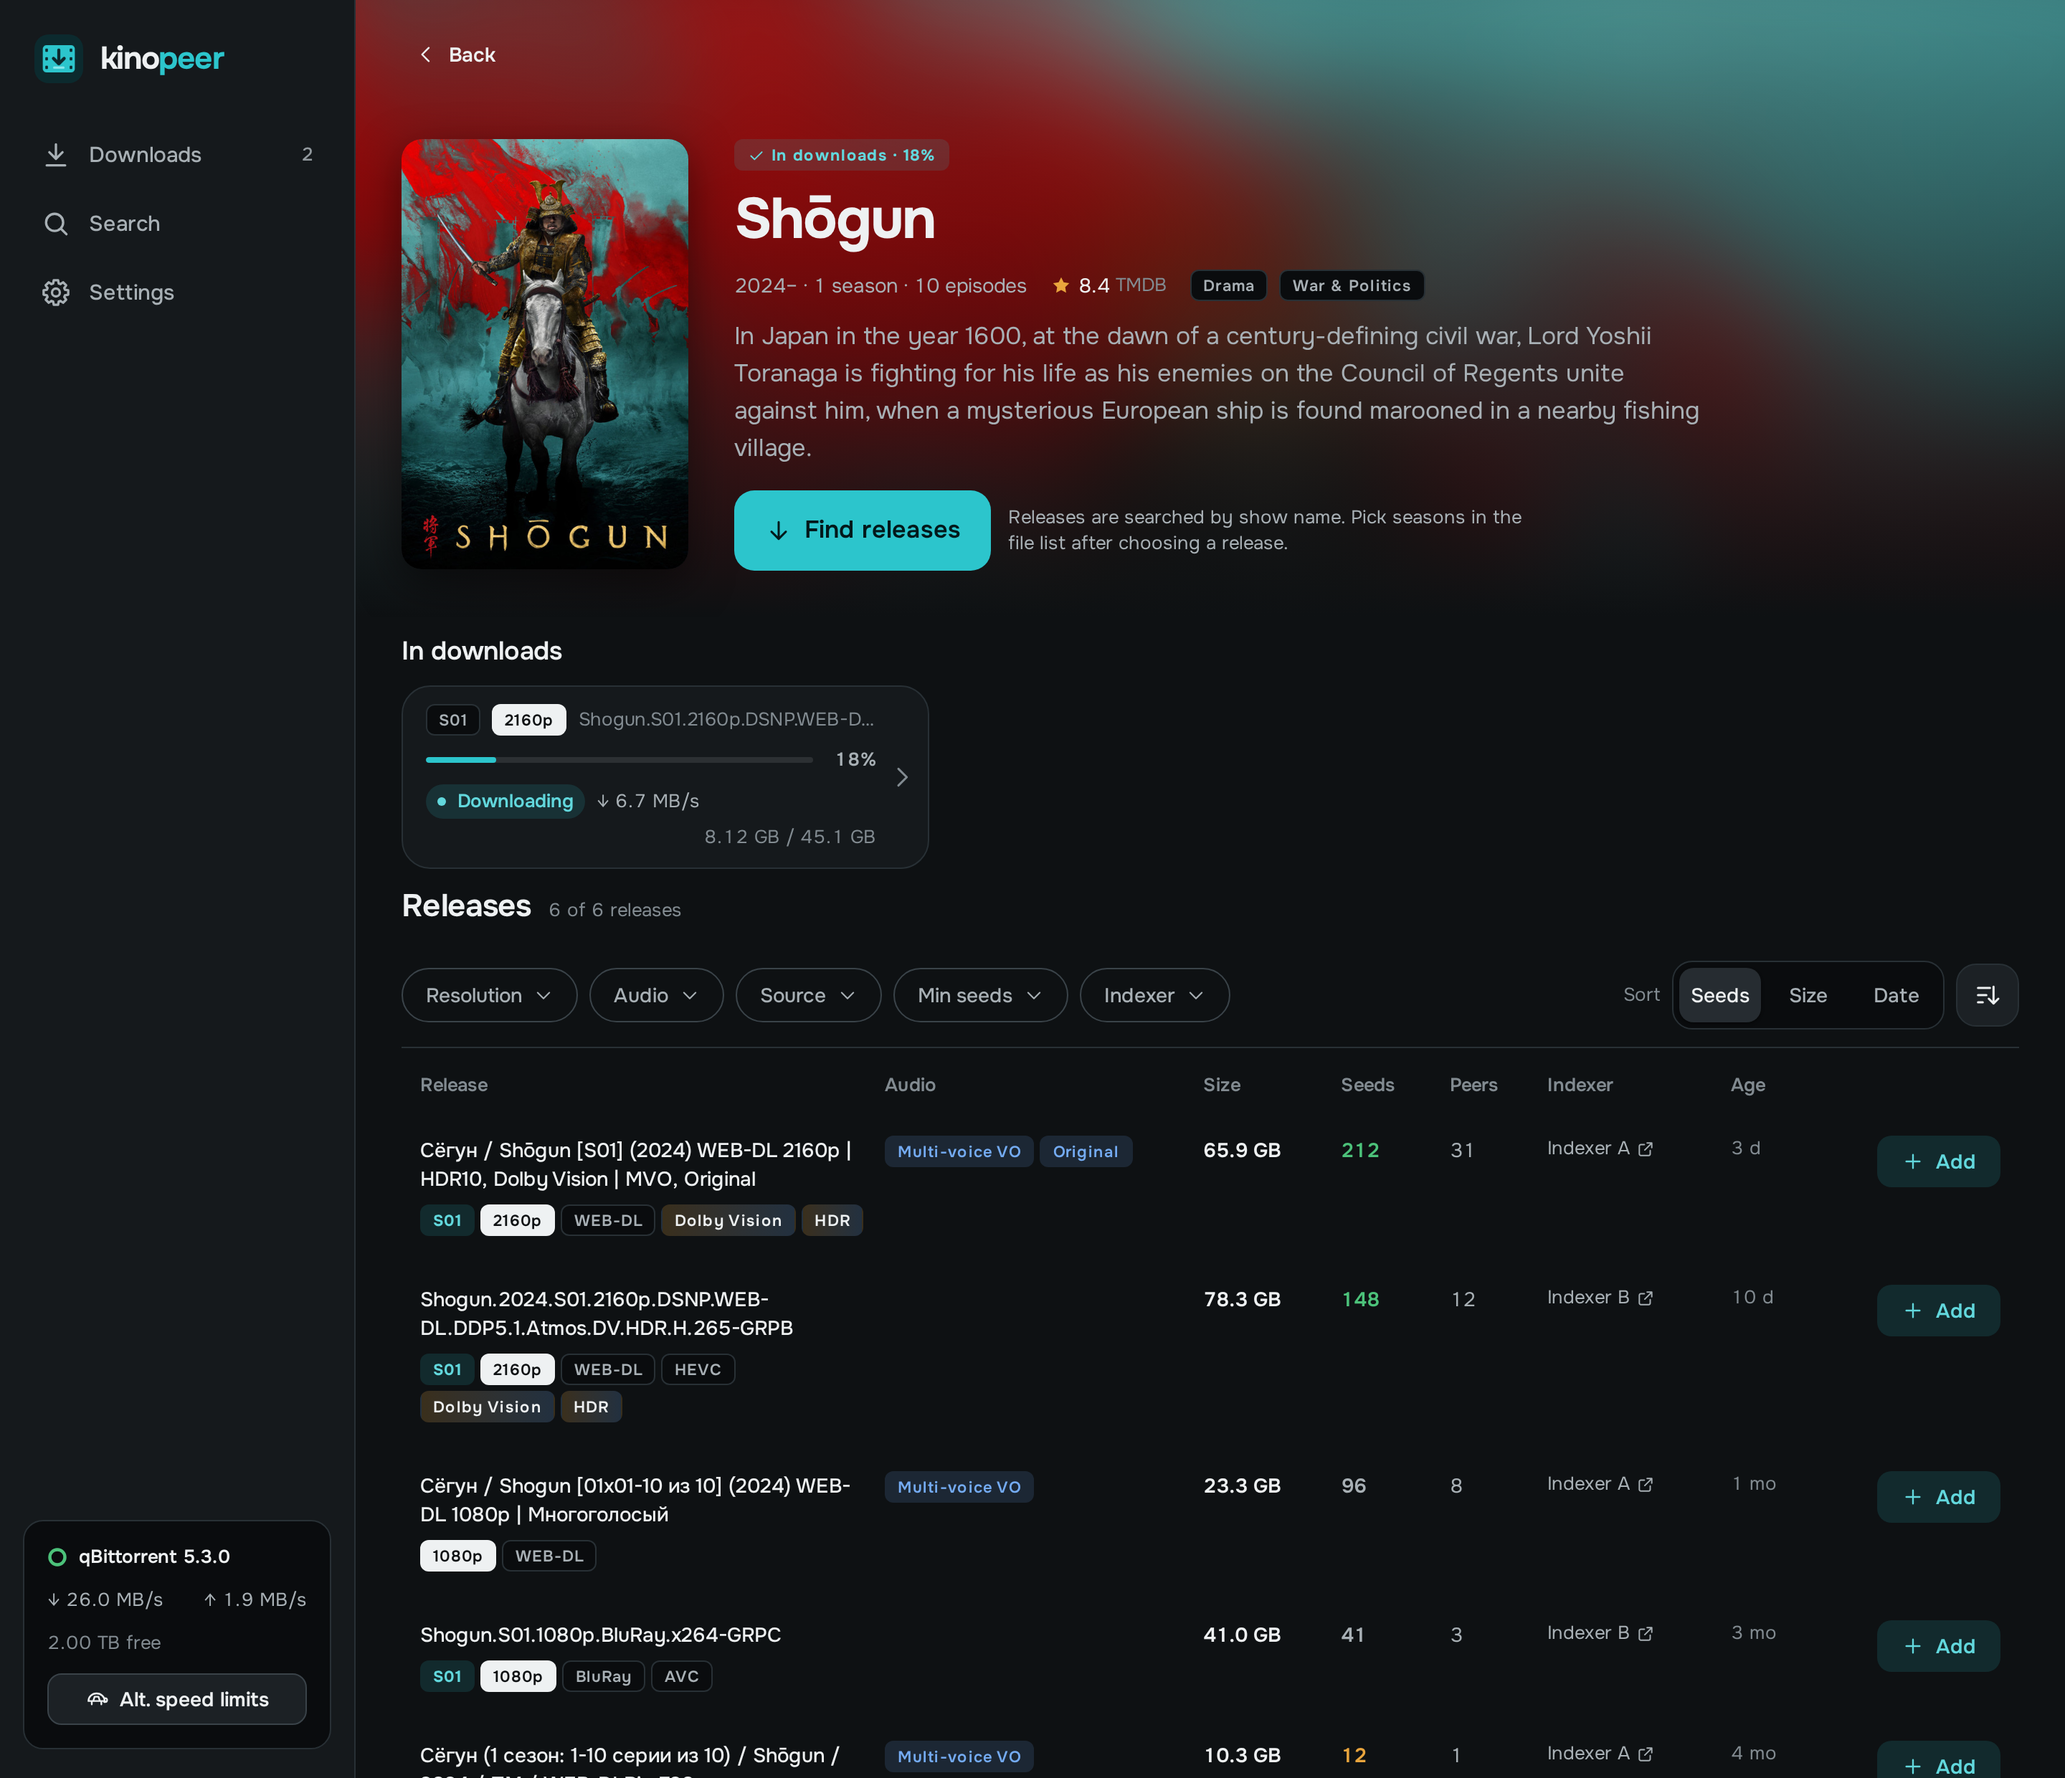
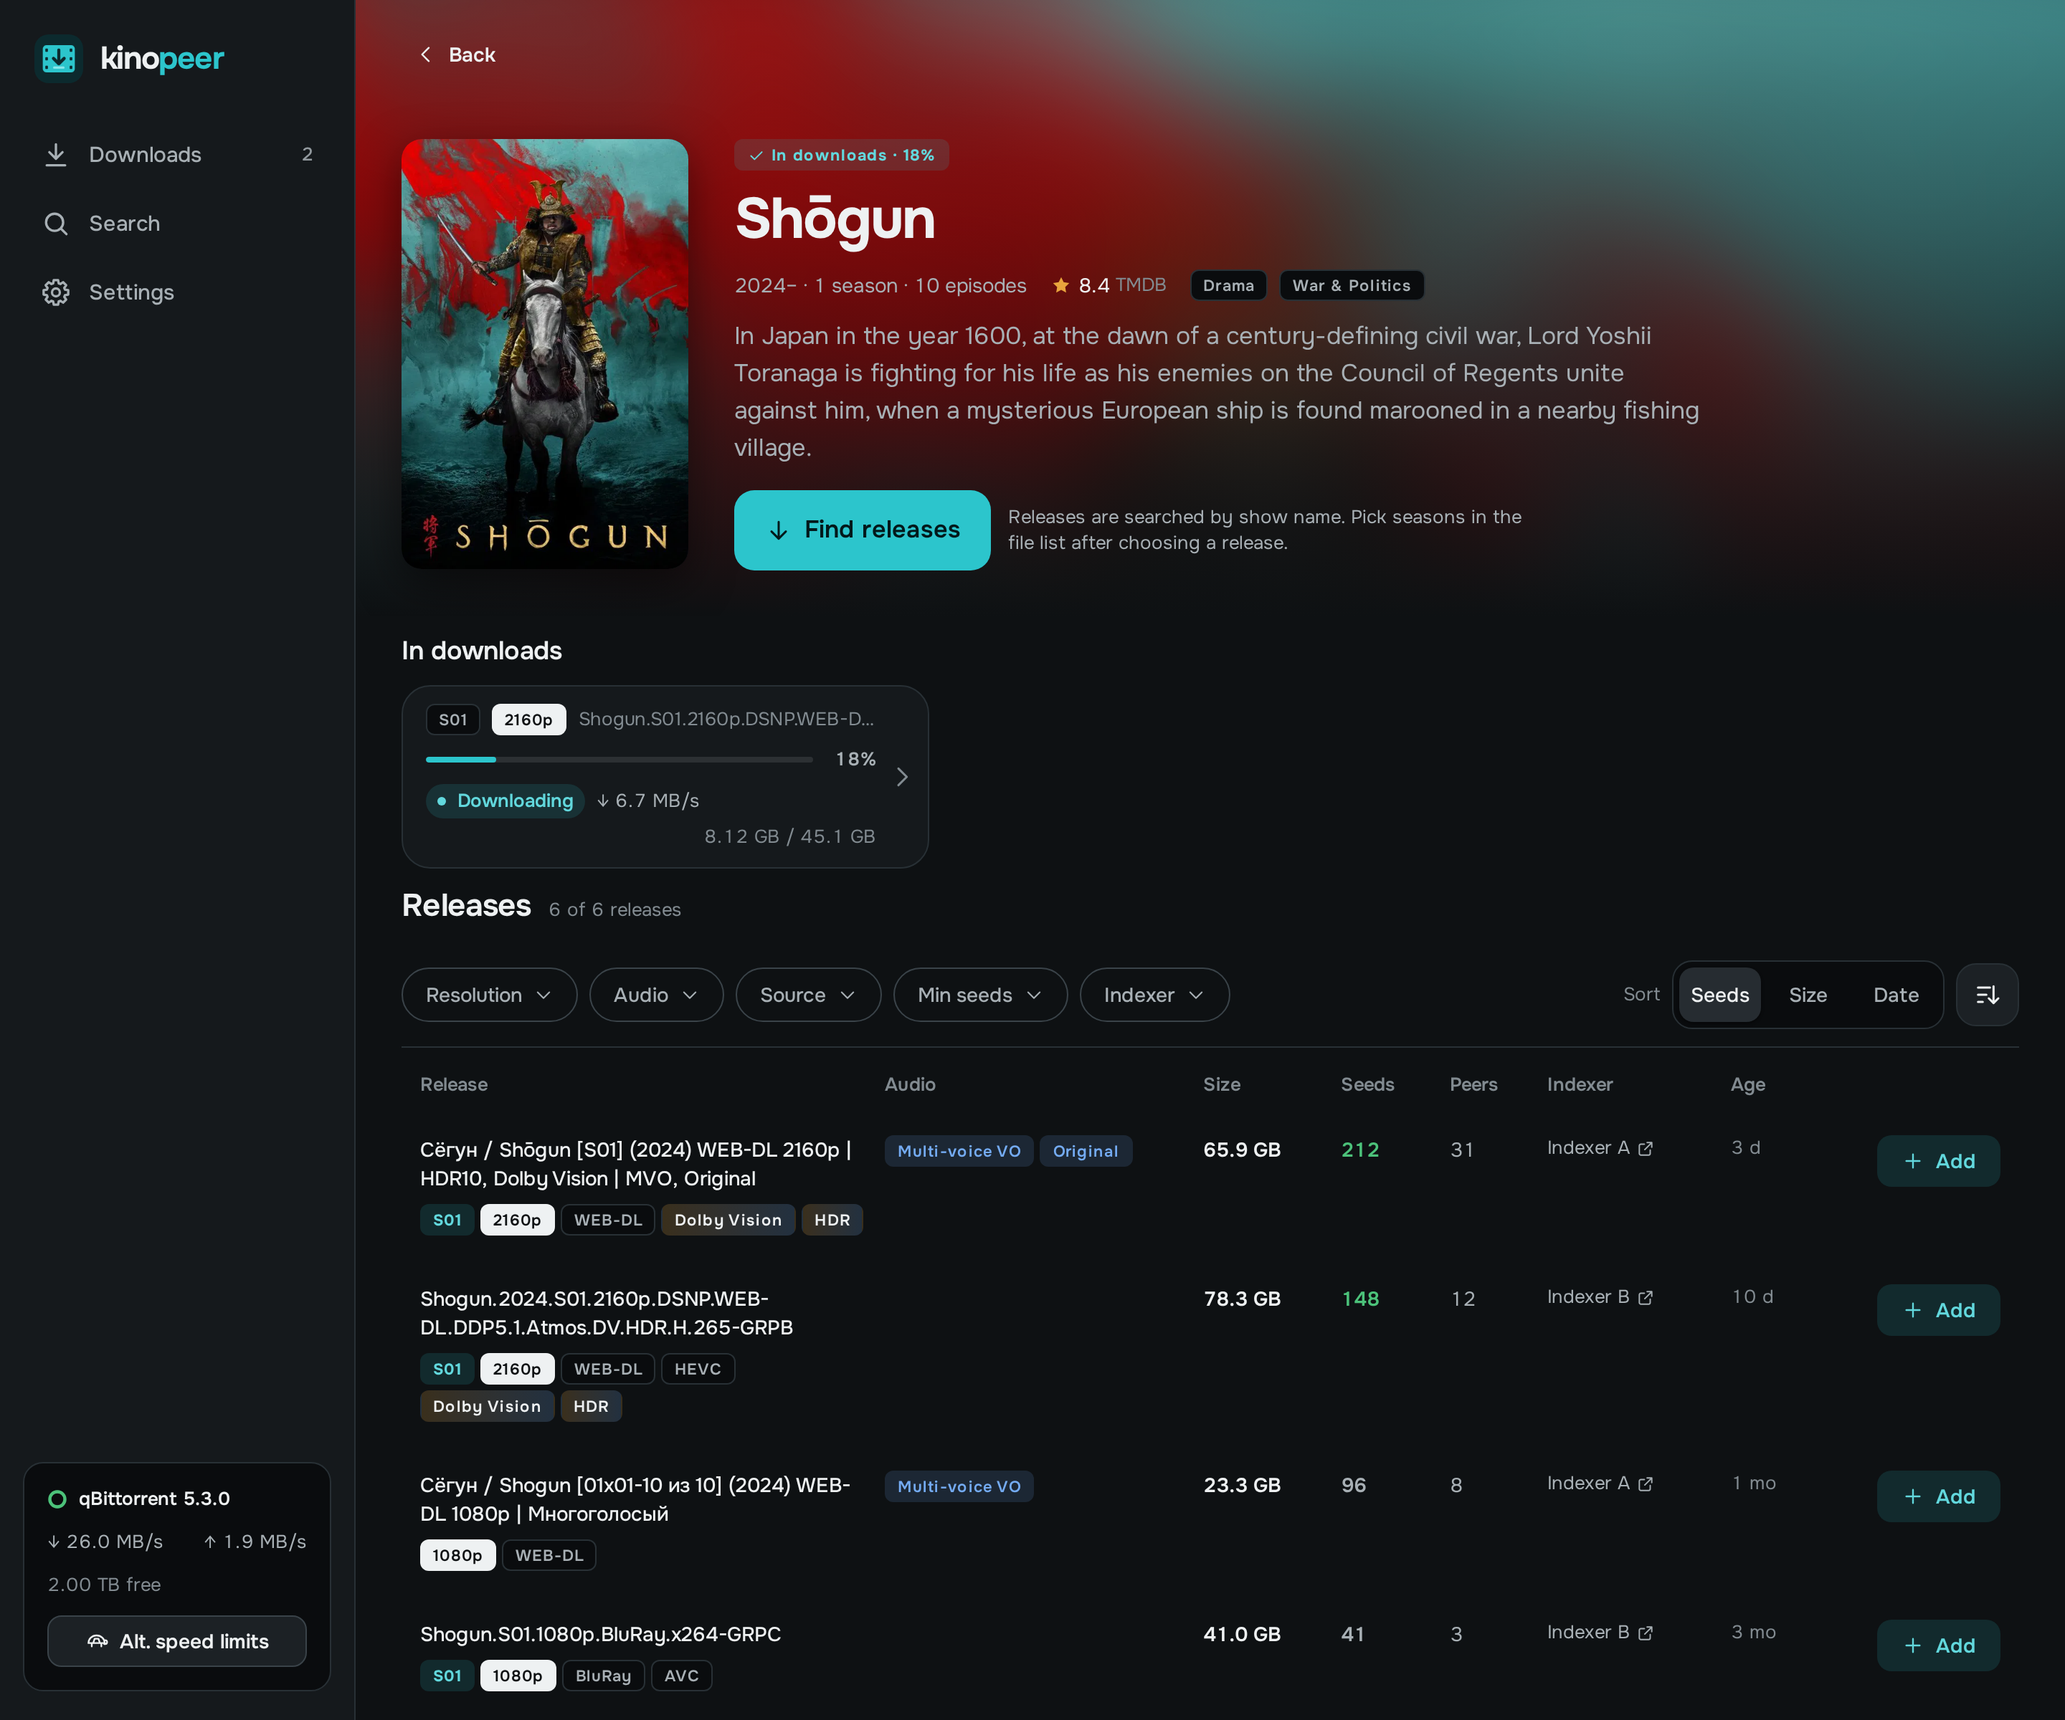
docs: fixes for review round 1 on the README

diff --git a/e2e/readme.shots.ts b/e2e/readme.shots.ts
@@ -85,11 +85,10 @@ test.describe('desktop', () => {
   })
 
   test('title with releases', async ({ page }) => {
-    // Taller than the screenshot tests' desktop, so the hero shows a few releases under the title.
-    await page.setViewportSize({ width: DESKTOP.viewport.width, height: 1240 })
+    // Taller than the screenshot tests' desktop, so the hero shows four releases under the title, the last one whole.
+    await page.setViewportSize({ width: DESKTOP.viewport.width, height: 1200 })
     await openApp(page, '/title/tv/126308/releases', options)
     await expect(page.getByText(RELEASES[0].title)).toBeVisible()
-    await page.mouse.move(0, 0)
     await shoot(page, 'desktop-title')
   })
 })

diff --git a/README.md b/README.md
@@ -9,7 +9,7 @@ A qBittorrent web UI for movies and TV series. Find a movie or a series, pick a 
 > [!NOTE]
 > Kinopeer is in early development (version 0.x): for now it installs on umbrelOS only, and its settings and behavior may change between versions. What's planned before 1.0 is in the [roadmap](docs/ROADMAP.md).
 
-<img src="docs/screenshots/desktop-title.png" alt="A series page on a computer, with its releases under the overview: filters for resolution, voice-over, source, seeds and indexer over a table of releases">
+<img src="docs/screenshots/desktop-title.png" alt="A series page on a computer, with its releases under the overview: filters for resolution, audio, source, minimum seeds and indexer over a table of releases">
 
 <p>
   <img src="docs/screenshots/releases.png" width="266" alt="Releases on a phone with season, resolution, source, HDR and voice-over badges">
@@ -28,7 +28,7 @@ A qBittorrent web UI for movies and TV series. Find a movie or a series, pick a 
 
 - **From a title to a release.** Find a movie or a series in TMDB, and Kinopeer searches every indexer in your Prowlarr. It reads each release's name for its resolution, source, HDR, voice-over and seasons, so the filters narrow the list down to the one you want.
 - **Download only what you need.** The release goes to qBittorrent with your category and folder. Pick single files or seasons, and Kinopeer tells you beforehand whether they fit in the free space.
-- **Downloads as a film collection.** Every torrent shows as its movie or series, with a poster and a title instead of a release name, and a title's page shows what of it is downloading.
+- **Downloads as a film collection.** Kinopeer recognizes each torrent's movie or series from its release name and shows it with a poster and a title instead of the release name; a wrong guess takes a moment to correct. A title's page shows what of it is downloading.
 - **Managing torrents.** What you actually need when downloading movies and series, without opening qBittorrent's web UI: pause and delete, several torrents at once too, file priorities, speed limits, moving files, categories.
 - **Phone and computer.** A comfortable interface that fits both a phone and a computer. Multilingual, with dark and light themes.
 
